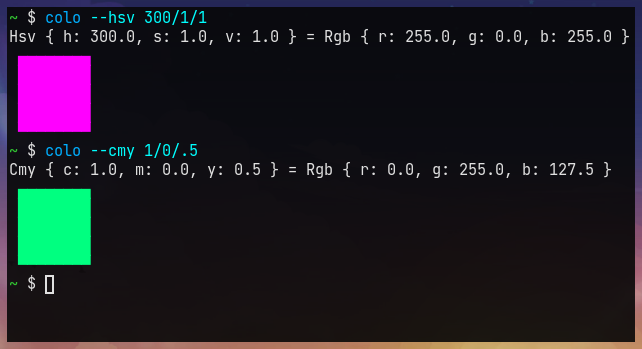
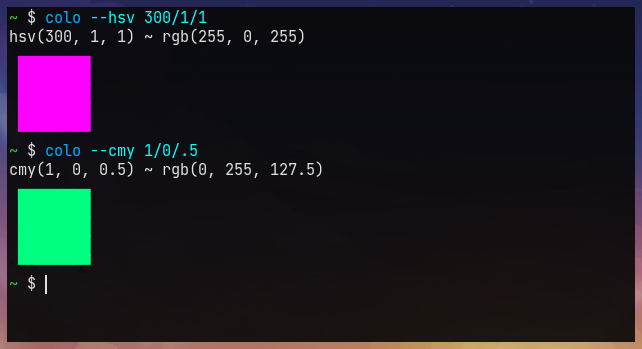
Better text display of colors

diff --git a/src/show_color.rs b/src/show_color.rs
@@ -8,45 +8,39 @@ use std::io::{stdout, Write};
 use crate::color::{hex, html, json, spaces, Color};
 
 pub fn show(color: Color) -> Result<()> {
+    let printed = color.to_string();
     match color {
-        Color::Rgb(c) => show_generic(c, None),
-        Color::Cmy(c) => show_generic(c, None),
-        Color::Cmyk(c) => show_generic(c, None),
-        Color::Hsv(c) => show_generic(c, None),
-        Color::Hsl(c) => show_generic(c, None),
-        Color::Lch(c) => show_generic(c, None),
-        Color::Luv(c) => show_generic(c, None),
-        Color::Lab(c) => show_generic(c, None),
-        Color::HunterLab(c) => show_generic(c, None),
-        Color::Xyz(c) => show_generic(c, None),
-        Color::Yxy(c) => show_generic(c, None),
+        Color::Rgb(c) => show_generic(c, printed, Some(hex::from_rgb(c))),
+        Color::Cmy(c) => show_generic(c, printed, None),
+        Color::Cmyk(c) => show_generic(c, printed, None),
+        Color::Hsv(c) => show_generic(c, printed, None),
+        Color::Hsl(c) => show_generic(c, printed, None),
+        Color::Lch(c) => show_generic(c, printed, None),
+        Color::Luv(c) => show_generic(c, printed, None),
+        Color::Lab(c) => show_generic(c, printed, None),
+        Color::HunterLab(c) => show_generic(c, printed, None),
+        Color::Xyz(c) => show_generic(c, printed, None),
+        Color::Yxy(c) => show_generic(c, printed, None),
     }
 }
 
 pub fn show_hex_or_html(color: &str) -> Result<()> {
-    if let Some(rgb) = html::get_single(color) {
-        show_generic(rgb, Some(color.to_string() + " = " + &hex::from_rgb(rgb)))?;
-    } else {
-        let rgb = hex::parse(color)?;
-        show_generic(rgb, Some(format!("{} = {:?}", hex::from_rgb(rgb), rgb)))?;
-    }
+    let rgb = html::get_single(color).map_or_else(|| hex::parse(color), Ok)?;
+    show_generic(rgb, hex::from_rgb(rgb), None)?;
     Ok(())
 }
 
-fn show_generic(color: impl ToRgb + Debug, msg: Option<String>) -> Result<()> {
-    let color_dbg = format!("{:?}", color);
+fn show_generic(
+    color: impl ToRgb + Debug,
+    mut input: String,
+    converted: Option<String>,
+) -> Result<()> {
     let rgb = color.to_rgb();
-    let rgb_dbg = format!("{:?}", rgb);
 
-    let msg = msg.unwrap_or_else(|| {
-        if color_dbg == rgb_dbg {
-            color_dbg
-        } else {
-            color_dbg + " = " + &rgb_dbg
-        }
-    });
+    input.push_str(" ~ ");
+    input.push_str(&converted.unwrap_or_else(|| Color::Rgb(rgb).to_string()));
 
-    show_impl(rgb, msg)
+    show_impl(rgb, input)
 }
 
 fn show_impl(rgb: spaces::Rgb, msg: String) -> Result<()> {

diff --git a/src/color/mod.rs b/src/color/mod.rs
@@ -1,4 +1,5 @@
 mod convert;
+mod display;
 
 pub mod hex;
 pub mod html;
@@ -44,5 +45,21 @@ pub enum Color {
 impl Color {
     pub fn new(color_space: ColorSpace, components: &[f64]) -> Result<Self, convert::ParseError> {
         std::convert::TryFrom::try_from((color_space, components))
+    }
+
+    pub fn divide(self) -> (ColorSpace, Vec<f64>) {
+        match self {
+            Color::Rgb(color) => (ColorSpace::Rgb, vec![color.r, color.g, color.b]),
+            Color::Cmy(color) => (ColorSpace::Cmy, vec![color.c, color.m, color.y]),
+            Color::Cmyk(color) => (ColorSpace::Cmyk, vec![color.c, color.m, color.y, color.k]),
+            Color::Hsv(color) => (ColorSpace::Hsv, vec![color.h, color.s, color.v]),
+            Color::Hsl(color) => (ColorSpace::Hsl, vec![color.h, color.s, color.l]),
+            Color::Lch(color) => (ColorSpace::Lch, vec![color.l, color.c, color.h]),
+            Color::Luv(color) => (ColorSpace::Luv, vec![color.l, color.u, color.v]),
+            Color::Lab(color) => (ColorSpace::Lab, vec![color.l, color.a, color.b]),
+            Color::HunterLab(color) => (ColorSpace::HunterLab, vec![color.l, color.a, color.b]),
+            Color::Xyz(color) => (ColorSpace::Xyz, vec![color.x, color.y, color.z]),
+            Color::Yxy(color) => (ColorSpace::Yxy, vec![color.y1, color.x, color.y2]),
+        }
     }
 }

diff --git a/src/color/display.rs b/src/color/display.rs
@@ -1,0 +1,40 @@
+use std::fmt;
+
+use super::{Color, ColorSpace};
+
+impl fmt::Display for ColorSpace {
+    fn fmt(&self, f: &mut fmt::Formatter<'_>) -> fmt::Result {
+        write!(
+            f,
+            "{}",
+            match self {
+                ColorSpace::Rgb => "rgb",
+                ColorSpace::Cmy => "cmy",
+                ColorSpace::Cmyk => "cmyk",
+                ColorSpace::Hsv => "hsv",
+                ColorSpace::Hsl => "hsl",
+                ColorSpace::Lch => "lch",
+                ColorSpace::Luv => "luv",
+                ColorSpace::Lab => "lab",
+                ColorSpace::HunterLab => "hunterlab",
+                ColorSpace::Xyz => "xyz",
+                ColorSpace::Yxy => "yxy",
+            }
+        )
+    }
+}
+
+impl fmt::Display for Color {
+    fn fmt(&self, f: &mut fmt::Formatter<'_>) -> fmt::Result {
+        let (color_space, parts) = self.divide();
+        write!(f, "{}(", color_space)?;
+        let last = parts.len() - 1;
+        for (i, part) in parts.into_iter().enumerate() {
+            write!(f, "{}", (part * 100.0).round() / 100.0)?;
+            if i != last {
+                write!(f, ", ")?;
+            }
+        }
+        write!(f, ")")
+    }
+}

diff --git a/src/color/hex.rs b/src/color/hex.rs
@@ -74,6 +74,12 @@ fn format_hex(numbers: &[u8]) -> String {
         .collect::<String>()
 }
 
+/// Converts an RGB color to hexadecimal notation
+///
+/// ```rust
+/// # use spaces::Rgb;
+/// assert_eq!(from_rgb(Rgb { r: 15.0, g: 0.0, b: 255.0 }), String::from("#0F00FF"));
+/// ```
 pub fn from_rgb(rgb: spaces::Rgb) -> String {
     format!(
         "#{:02X}{:02X}{:02X}",

diff --git a/README.md b/README.md
@@ -26,7 +26,7 @@ Color spaces other than RGB are supported as well:
 
 ![usage with other color spaces](docs/colo2.png)
 
-If `colo` is used outside of a terminal, it outputs JSON, because it is the most ubiquitous data format:
+If `colo` is used outside of a terminal, it outputs JSON, because it is the most ubiquitous data exchange format:
 
 ![json usage](docs/colo3.png)
 
